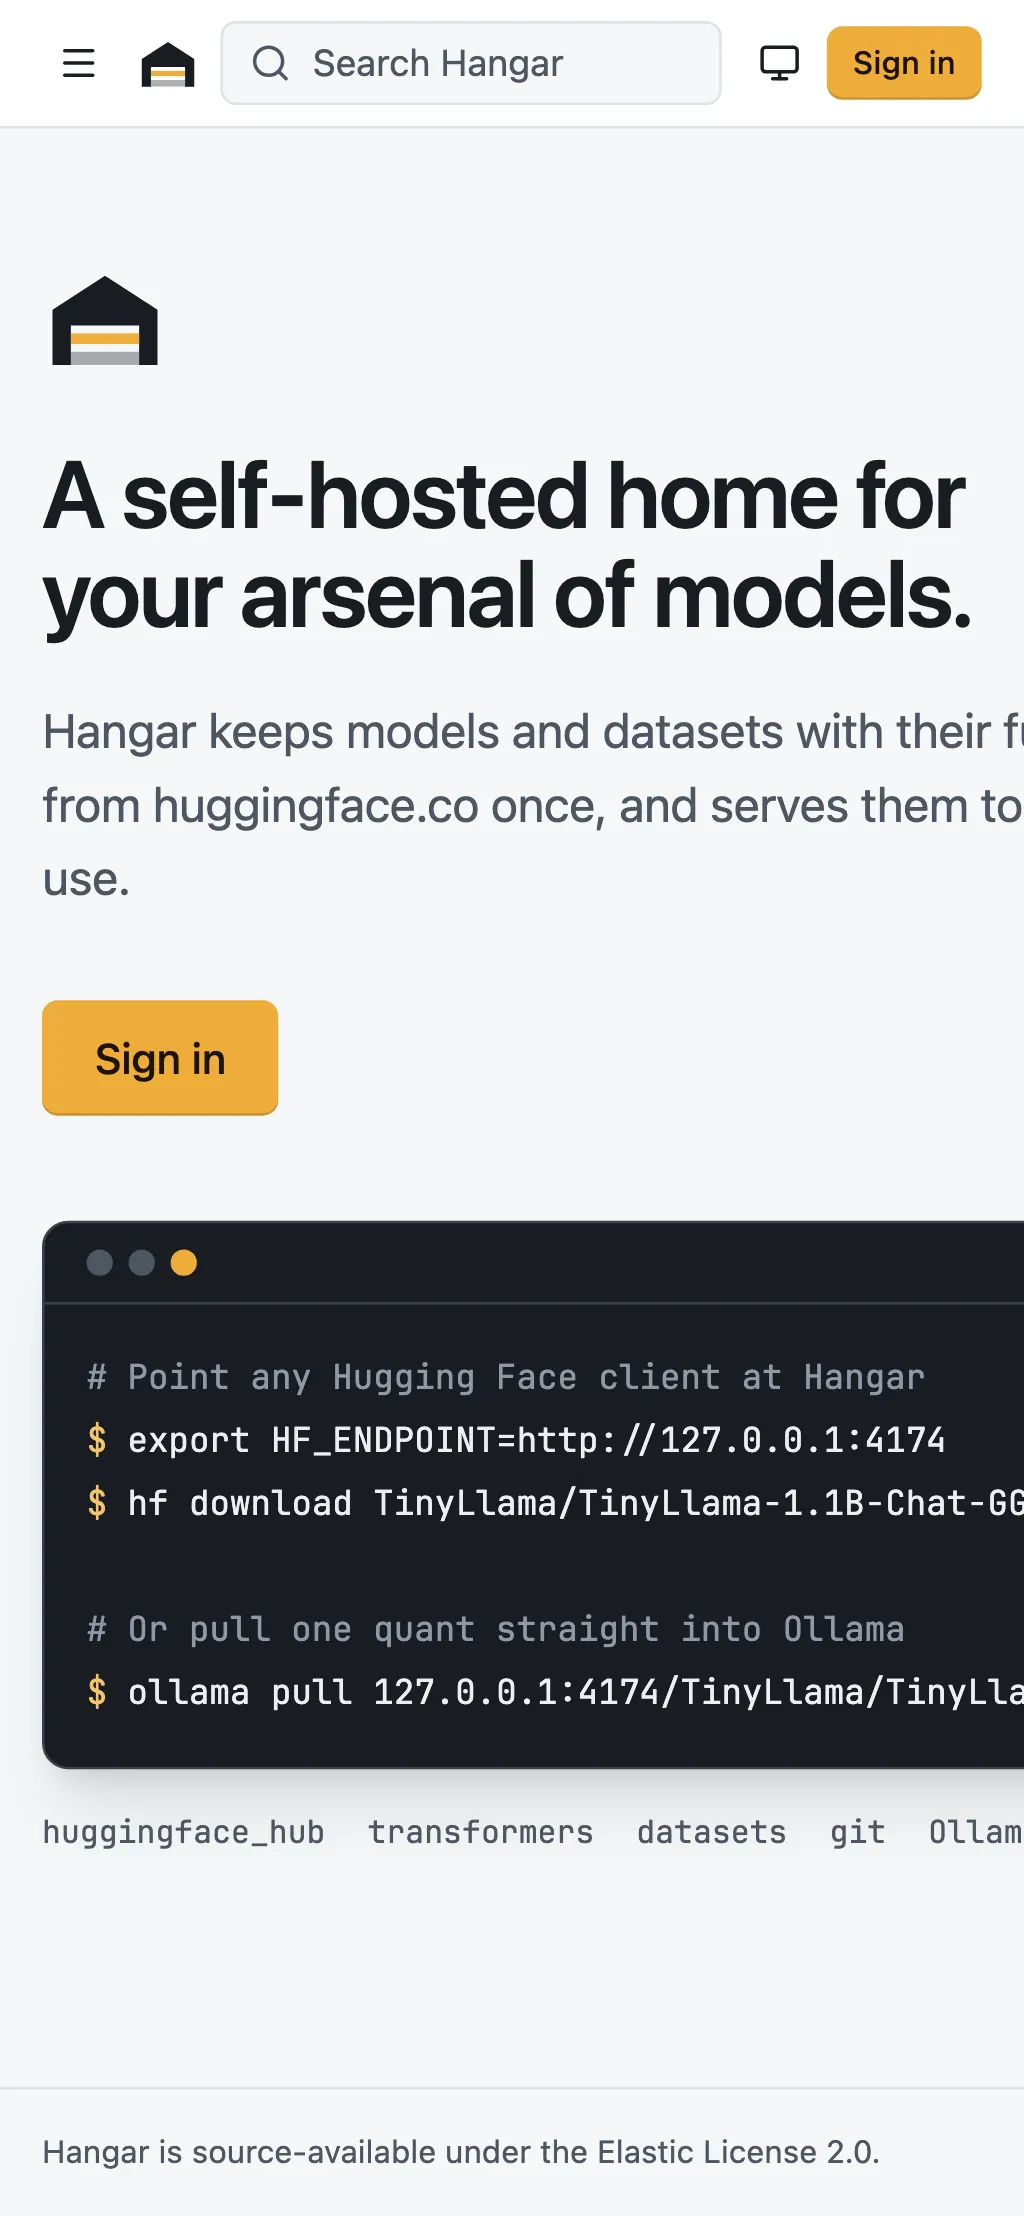
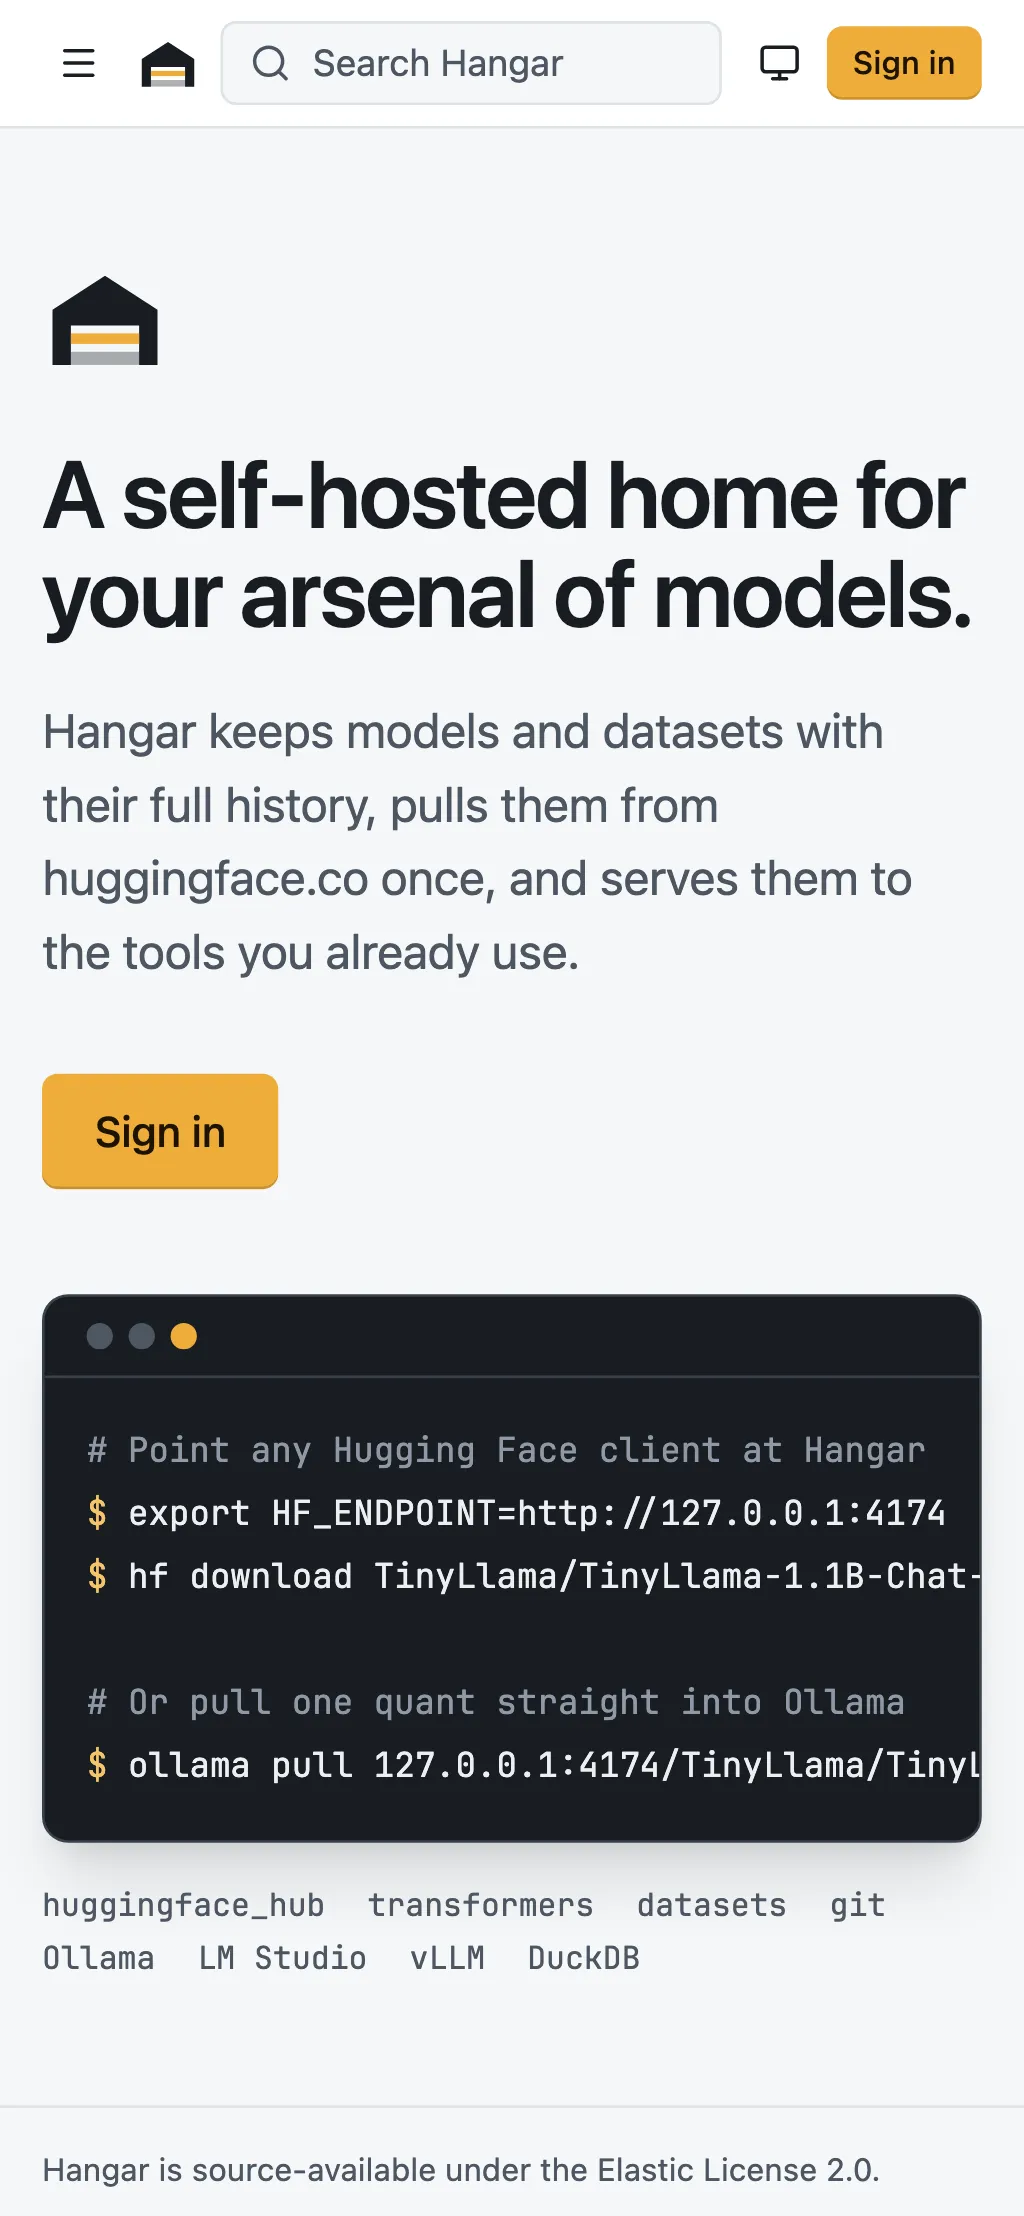
docs(build): record the measured responsive result and the follow-up fixes in the W8 handoff
Regenerates the landing and Model card phone screenshots after the layout and code block fixes.

Changed region(s): [[0.0312, 0.3114, 1.0, 0.903], [0.0312, 0.9653, 0.8438, 0.9964]]

diff --git a/docs/build/handoffs/w8.md b/docs/build/handoffs/w8.md
@@ -21,7 +21,7 @@ Every page in [09](../../spec/09-web-ui.md) is built against the client generate
 | DATA-13 | Dataset card rendering with the YAML metadata in the sidebar, and a card editor (pretty name, licence, task categories, languages, Configs with Splits and file patterns) that validates and writes YAML while keeping other keys. | `ui/src/features/datasets/card.ts`, `CardEditor.tsx` |
 | AUTH-1 to AUTH-7, PULL-8 | Sign-in (password and one button per OIDC provider, OIDC error messages, registration when open), invite and reset pages, profile with provider linking, Tokens (scope, Namespace and Repo restrictions, expiry, shown once, revoke), Ollama keys, Upstream tokens, sessions, Organisations, device-code approval, Organisation members. | `ui/src/features/auth/`, `ui/src/features/settings/`, `ui/src/features/NamespacePage.tsx` |
 | OPS-9, EVT-1, EVT-2, OPS-4, PULL-7, PULL-10 | Admin: system information and checks, users (create, disable, admin, reset links, invites, every Token), Organisations, Upstreams (add, edit, enable, Instance token, test), Pull settings (bandwidth, concurrency, windows, override, Pull-through), storage (usage, quotas, **Run GC**), Jobs (filters, cancel, retry), every webhook with deliveries and redelivery, audit log with filters and CSV export, Instance settings. | `ui/src/features/admin/`, `ui/src/features/webhooks/` |
-| 09 global | Top bar with search, **Arsenal**, **Discover**, **Collections**, Jobs drawer (running count, progress, cancel), user menu, theme toggle (system, light, dark); WCAG 2.2 AA; phone, tablet and desktop layouts with tables as cards on phones; routes split by page. | `ui/src/components/` |
+| 09 global | Top bar with search, **Arsenal**, **Discover**, **Collections**, Jobs drawer (running count, progress, cancel), user menu, theme toggle (system, light, dark); WCAG 2.2 AA; phone, tablet and desktop layouts with tables as cards on phones, where no route scrolls sideways at 390, 1024 or 1440 pixels (measured on every route in `e2e/pages.spec.ts`; only code blocks, tab strips and wide tables scroll, inside their own regions); routes split by page. | `ui/src/components/` |
 | 09 CSP | `internal/web` now sends a fresh style nonce per page in the CSP and in `<meta name="csp-nonce">`, so modal windows can lock scrolling without `'unsafe-inline'`. Scripts stay `'self'` only. | `internal/web/web.go` |
 
 ### The mock server
@@ -37,9 +37,9 @@ All with Node 24 first on `PATH` (`export PATH=~/.nvm/versions/node/v24.19.0/bin
 
 | What | Command | Result on the branch |
 |---|---|---|
-| Lint and unit tests, Go and UI | `make lint test` | golangci-lint 0 issues, Biome clean, `tsc` clean, em dash check clean, every Go package `ok` (SQLite and Postgres), Vitest 19 files, 79 tests |
-| Unit tests: formatting, paths, problem details, snippets, `where` builder, front matter, Pull sizes, card editor model, header parsing, streaming SHA-256 against a one-shot hash, upload resume (against a server that starts a new upload on every plan, as W2's does: remembered uploads, expired and mismatched ones, blocked storage) and presigned uploads, same-origin part URLs, Markdown sanitising and external images, viewer cells, the mock server against the OpenAPI file, the build plugin that keeps `internal/web/dist/.gitkeep` | `cd ui && corepack pnpm run test` | 79 passed |
-| Every page renders with one `h1`, passes every axe rule (WCAG 2.2 AA and best practices such as heading order and unique landmarks, as phase 0's shell test ran), logs no CSP violation and never says "Owner", which CONTEXT.md says to avoid for a Namespace (`expectGlossaryTerms` in `e2e/helpers.ts`), at 390, 1024 and 1440 pixels, signed in and out. Includes Commit detail and the dataset Files, file, Commits, Commit, Community and Settings routes, `/settings` and `/admin`; the dark theme on 7 pages; the upload panel, **Use this model** dialog, search palette and card editor; main navigation on every width | `cd ui && corepack pnpm exec playwright test e2e/pages.spec.ts` | 219 passed |
+| Lint and unit tests, Go and UI | `make lint test` | golangci-lint 0 issues, Biome clean, `tsc` clean, em dash check clean, every Go package `ok` (SQLite and Postgres), Vitest 19 files, 80 tests |
+| Unit tests: formatting, paths, problem details, snippets, `where` builder, front matter, Pull sizes, card editor model, header parsing, streaming SHA-256 against a one-shot hash, upload resume (against a server that starts a new upload on every plan, as W2's does: remembered uploads, expired and mismatched ones, blocked storage) and presigned uploads, same-origin part URLs, Markdown sanitising and external images, viewer cells, the mock server against the OpenAPI file, the build plugin that keeps `internal/web/dist/.gitkeep`, the Markdown loading status | `cd ui && corepack pnpm run test` | 80 passed |
+| Every page renders with one `h1`, fits the viewport without scrolling sideways (`document.documentElement.scrollWidth` no wider than the viewport, `expectNoHorizontalOverflow` in `e2e/helpers.ts`, which names the elements that stick out), passes every axe rule (WCAG 2.2 AA and best practices such as heading order and unique landmarks, as phase 0's shell test ran), logs no CSP violation and never says "Owner", which CONTEXT.md says to avoid for a Namespace (`expectGlossaryTerms` in `e2e/helpers.ts`), at 390, 1024 and 1440 pixels, signed in and out. Includes Commit detail and the dataset Files, file, Commits, Commit, Community and Settings routes, `/settings` and `/admin`; the dark theme on 7 pages; the upload panel, **Use this model** dialog, search palette and card editor (these four also checked for sideways scrolling); main navigation on every width | `cd ui && corepack pnpm exec playwright test e2e/pages.spec.ts` | 219 passed |
 | Flows: sign-in (password, wrong password, OIDC with redirect, errors, invite), Discover and Pull (model quant picker, dataset Parquet-only), upload (6 MiB file in parts through the Web Worker, small file inline, open as pull request, resume after a page reload with one part stored that sends only the missing part to the first upload), browse files and the GGUF and safetensors viewers, pickle scan, Commits and diffs, editing, **Use this model**, Token creation shown once and revoked, admin settings, Pull windows, users, Upstreams, Jobs, storage, audit, dataset Viewer paging, sorting, filtering and search, images, preparing state, card editor, keyboard search, keyboard reordering, creating a Repo and a Collection in an Organisation's Namespace through the **Namespace** picker, empty arsenal and virtualisation of 260 Repos | `cd ui && corepack pnpm exec playwright test e2e/flows.spec.ts` | 72 passed (24 flows at three widths) |
 | Initial JavaScript under 250 KB gzipped on the landing page, Arsenal, Repo page and Viewer | `cd ui && corepack pnpm exec playwright test e2e/budget.spec.ts` | 4 passed |
 | Screenshots at three widths | `cd ui && corepack pnpm run screenshots` | 27 WebP files in `docs/assets/screenshots/` (1.3 MB) |
@@ -48,6 +48,18 @@ All with Node 24 first on `PATH` (`export PATH=~/.nvm/versions/node/v24.19.0/bin
 Phase 0's `e2e/shell.spec.ts` (seven page shells, every axe rule) is replaced by `e2e/pages.spec.ts`, which covers every page and runs every axe rule too (`expectAccessible` in `e2e/helpers.ts`), not only the WCAG tags.
 
 `make e2e` runs the whole Playwright suite; without `HANGAR_URL` it builds the UI and starts the mock preview itself. Install Chromium once with `cd ui && corepack pnpm exec playwright install chromium`.
+
+## Follow-ups: responsive layout
+
+Fixed after review found the landing page scrolling sideways on phones, which the earlier claim of phone layouts did not catch.
+
+1. **The signed-out landing page (`/`) overflowed at 390 pixels.** The hero grid in `ui/src/features/HomePage.tsx` had explicit columns only from `lg:`, so below that its implicit track grew to the min-content width of the terminal's `<pre>`, and the page was 596 pixels wide. The grid now has one `minmax(0, 1fr)` column below `lg:`, so the terminal scrolls inside its own region. Regression test: `/ renders, fits the width and is accessible when signed out` at the phone width, which failed before the fix with "the page is 596 px wide in a 390 px viewport".
+2. **Every route is checked for sideways scrolling.** `expectNoHorizontalOverflow` runs in every route test of `e2e/pages.spec.ts` (signed in and out) and in the four dialog tests, at all three widths, so the phone width (390 pixels, the `phone` project) is covered on every route. Before the fix it failed on the landing page only; no other route overflowed at any width.
+3. **Screenshots.** `landing-phone.webp` and `model-card-phone.webp` were regenerated. Every committed phone screenshot was checked by eye: none is clipped by the page. Content cut off at the right edge is inside regions that scroll on their own (code blocks, the Repo, Settings and Admin tab strips, the Viewer table). The other screenshots were left as they were, because regenerating them only changes relative times in the mock data.
+4. **This handoff** now states the measured result: no route scrolls sideways at 390, 1024 or 1440 pixels (09 global row and the Playwright row above).
+5. **An intermittent axe failure hid a keyboard bug.** `/ada/bert-tiny-finetune passes axe in the dark theme` failed about one run in four with `scrollable-region-focusable` on a `<pre>`, and sometimes with an empty page. Two causes:
+   - The dark theme tests ran axe without waiting for the page to render, so `settled()` could pass on an empty document. They now wait for the `h1` first, as the route tests do.
+   - The `LazyMarkdown` placeholder was not a loading status, so `settled()` did not wait for Markdown cards, and axe usually ran before the card's code block existed. The placeholder is now `role="status"` with the name **Loading Markdown** (unit test `LazyMarkdown > announces a loading status until the Markdown code loads`). With that, axe failed every time on the Model card and the `README.md` file view at the phone width: `.prose-hangar pre` had `overflow-x: auto`, so the `<pre>` scrolled itself and keyboard users could not scroll it, because focus goes to the `ScrollRegion` around it. The rule is removed from `ui/src/styles.css`, so the focusable region scrolls the code. Regression tests: `/ada/bert-tiny-finetune renders, fits the width and is accessible`, `/ada/bert-tiny-finetune/blob/main/README.md renders, fits the width and is accessible` and `/ada/bert-tiny-finetune passes axe in the dark theme` at the phone width. The dark theme tests passed 210 out of 210 runs afterwards (`--repeat-each=10`).
 
 ## Known gaps
 
